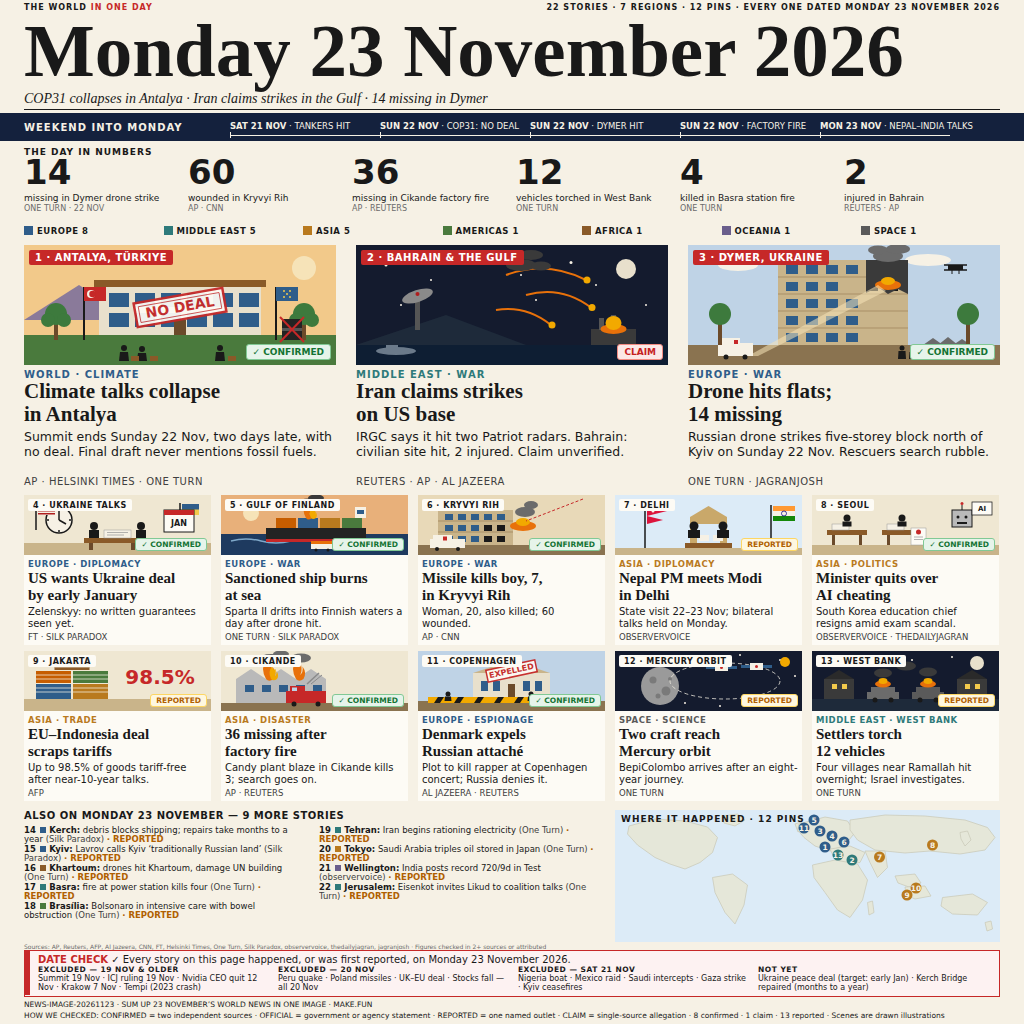
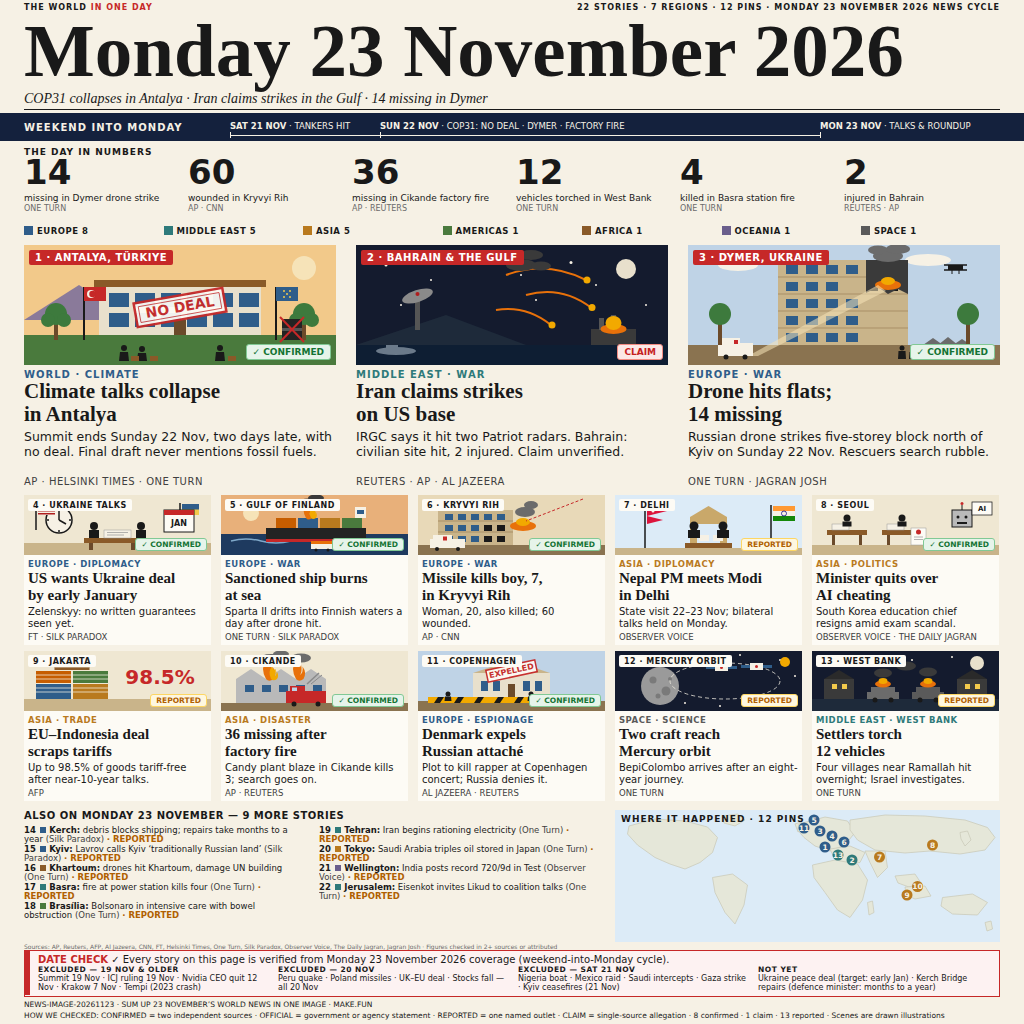
news-image-20261123: round 2 fix — date wording, timeline endpoint, DATE CHECK dates, source casing, pin 10 gap

diff --git a/build/front.html b/build/front.html
@@ -72,7 +72,7 @@ body { width:2048px; height:2048px; background:#F6F1E5; font-family:'DejaVu Sans
 </style></head><body>
 
 <!-- TOP STRIP + DATE : v2 — 22 stories on the page (not the 36-story pool), 12 pins, 7 regions -->
-<div class="strip"><span>THE WORLD <span class="red">IN ONE DAY</span></span><span>22 STORIES &middot; 7 REGIONS &middot; 12 PINS &middot; EVERY ONE DATED MONDAY 23 NOVEMBER 2026</span></div>
+<div class="strip"><span>THE WORLD <span class="red">IN ONE DAY</span></span><span>22 STORIES &middot; 7 REGIONS &middot; 12 PINS &middot; MONDAY 23 NOVEMBER 2026 NEWS CYCLE</span></div>
 <div class="bigdate">Monday 23 November 2026</div>
 <div class="mastdek">COP31 collapses in Antalya &middot; Iran claims strikes in the Gulf &middot; 14 missing in Dymer</div>
 <div class="rule" style="left:48px; top:218px; width:1952px; height:2px;"></div>
@@ -81,20 +81,16 @@ body { width:2048px; height:2048px; background:#F6F1E5; font-family:'DejaVu Sans
 <div class="tlbg"></div>
 <div class="tllab">WEEKEND INTO MONDAY</div>
 <div class="tick" style="left:460px;"><b>SAT 21 NOV</b> &middot; TANKERS HIT</div>
-<div class="tick" style="left:760px;"><b>SUN 22 NOV</b> &middot; COP31: NO DEAL</div>
-<div class="tick" style="left:1060px;"><b>SUN 22 NOV</b> &middot; DYMER HIT</div>
-<div class="tick" style="left:1360px;"><b>SUN 22 NOV</b> &middot; FACTORY FIRE</div>
-<div class="tick" style="left:1640px;"><b>MON 23 NOV</b> &middot; NEPAL&ndash;INDIA TALKS</div>
-<div style="position:absolute; left:460px; top:270px; width:1440px; height:2px; background:#F6F1E5;"></div>
+<div class="tick" style="left:760px;"><b>SUN 22 NOV</b> &middot; COP31: NO DEAL &middot; DYMER &middot; FACTORY FIRE</div>
+<div class="tick" style="left:1640px;"><b>MON 23 NOV</b> &middot; TALKS &amp; ROUNDUP</div>
+<div style="position:absolute; left:460px; top:270px; width:1180px; height:2px; background:#F6F1E5;"></div>
 <div style="position:absolute; left:459px; top:264px; width:2px; height:12px; background:#F6F1E5;"></div>
 <div style="position:absolute; left:759px; top:264px; width:2px; height:12px; background:#F6F1E5;"></div>
-<div style="position:absolute; left:1059px; top:264px; width:2px; height:12px; background:#F6F1E5;"></div>
-<div style="position:absolute; left:1359px; top:264px; width:2px; height:12px; background:#F6F1E5;"></div>
 <div style="position:absolute; left:1639px; top:264px; width:2px; height:12px; background:#F6F1E5;"></div>
 
 <!-- THE DAY IN NUMBERS : v2 — all six are people-counts from stories on this page -->
 <div class="nlab">THE DAY IN NUMBERS</div>
-<div class="nfig" style="left:48px;"><div class="f" style="font-size:68px; margin-top:20px;">14</div><div class="l">missing in Dymer drone strike</div><div class="s">ONE TURN &middot; 22 NOV</div></div>
+<div class="nfig" style="left:48px;"><div class="f" style="font-size:68px; margin-top:20px;">14</div><div class="l">missing in Dymer drone strike</div><div class="s">ONE TURN</div></div>
 <div class="nfig" style="left:376px;"><div class="f" style="font-size:68px; margin-top:20px;">60</div><div class="l">wounded in Kryvyi Rih</div><div class="s">AP &middot; CNN</div></div>
 <div class="nfig" style="left:704px;"><div class="f" style="font-size:68px; margin-top:20px;">36</div><div class="l">missing in Cikande factory fire</div><div class="s">AP &middot; REUTERS</div></div>
 <div class="nfig" style="left:1032px;"><div class="f" style="font-size:68px; margin-top:20px;">12</div><div class="l">vehicles torched in West Bank</div><div class="s">ONE TURN</div></div>
@@ -140,7 +136,7 @@ body { width:2048px; height:2048px; background:#F6F1E5; font-family:'DejaVu Sans
 <div class="region" style="color:#2F5D8A;">EUROPE &middot; WAR</div>
 <div class="head">Drone hits flats;<br>14 missing</div>
 <div class="dek">Russian drone strikes five-storey block north of Kyiv on Sunday 22 Nov. Rescuers search rubble.</div>
-<div class="src">ONE TURN &middot; JAGRANJOSH</div>
+<div class="src">ONE TURN &middot; JAGRAN JOSH</div>
 </div>
 
 <!-- GRID ROW 1 (990-1290) : v2 — 5 top-illustration cards -->
@@ -185,7 +181,7 @@ body { width:2048px; height:2048px; background:#F6F1E5; font-family:'DejaVu Sans
 <div class="region" style="color:#B97A1E;">ASIA &middot; DIPLOMACY</div>
 <div class="head">Nepal PM meets Modi<br>in Delhi</div>
 <div class="dek">State visit 22&ndash;23 Nov; bilateral talks held on Monday.</div>
-<div class="src">OBSERVERVOICE</div>
+<div class="src">OBSERVER VOICE</div>
 </div>
 
 <!-- CARD 8 : South Korea minister quits (story 13, CONFIRMED) — classroom, exam papers, AI robot, resignation letter -->
@@ -196,7 +192,7 @@ body { width:2048px; height:2048px; background:#F6F1E5; font-family:'DejaVu Sans
 <div class="region" style="color:#B97A1E;">ASIA &middot; POLITICS</div>
 <div class="head">Minister quits over<br>AI cheating</div>
 <div class="dek">South Korea education chief resigns amid exam scandal.</div>
-<div class="src">OBSERVERVOICE &middot; THEDAILYJAGRAN</div>
+<div class="src">OBSERVER VOICE &middot; THE DAILY JAGRAN</div>
 </div>
 
 <!-- GRID ROW 2 (1302-1602) : v2 — 5 top-illustration cards -->
@@ -268,7 +264,7 @@ body { width:2048px; height:2048px; background:#F6F1E5; font-family:'DejaVu Sans
 <div class="col" style="left:590px;">
 <div class="row"><span class="n">19</span> <span class="dot" style="background:#2E7A7A;"></span> <b>Tehran:</b> Iran begins rationing electricity <span class="rsrc">(One Turn)</span> <span class="bdg">&middot; REPORTED</span></div>
 <div class="row"><span class="n">20</span> <span class="dot" style="background:#B97A1E;"></span> <b>Tokyo:</b> Saudi Arabia triples oil stored in Japan <span class="rsrc">(One Turn)</span> <span class="bdg">&middot; REPORTED</span></div>
-<div class="row"><span class="n">21</span> <span class="dot" style="background:#6A5E8C;"></span> <b>Wellington:</b> India posts record 720/9d in Test <span class="rsrc">(observervoice)</span> <span class="bdg">&middot; REPORTED</span></div>
+<div class="row"><span class="n">21</span> <span class="dot" style="background:#6A5E8C;"></span> <b>Wellington:</b> India posts record 720/9d in Test <span class="rsrc">(Observer Voice)</span> <span class="bdg">&middot; REPORTED</span></div>
 <div class="row"><span class="n">22</span> <span class="dot" style="background:#2E7A7A;"></span> <b>Jerusalem:</b> Eisenkot invites Likud to coalition talks <span class="rsrc">(One Turn)</span> <span class="bdg">&middot; REPORTED</span></div>
 </div>
 </div>
@@ -304,22 +300,22 @@ body { width:2048px; height:2048px; background:#F6F1E5; font-family:'DejaVu Sans
 <circle cx="446" cy="90" r="11" fill="#2E7A7A"/><text x="446" y="95">13</text>
 <circle cx="529" cy="94" r="11" fill="#B97A1E"/><text x="529" y="99">7</text>
 <circle cx="474" cy="100" r="11" fill="#2E7A7A"/><text x="474" y="105">2</text>
-<circle cx="602" cy="156" r="11" fill="#B97A1E"/><text x="602" y="161">10</text>
+<circle cx="605" cy="153" r="11" fill="#B97A1E"/><text x="605" y="158">10</text>
 <circle cx="584" cy="170" r="11" fill="#B97A1E"/><text x="584" y="175">9</text>
 </g>
 </svg>
 </div>
 
-<div style="position:absolute; left:48px; top:1886px; width:1952px; font-size:12px; color:#6B6B6B; white-space:nowrap;">Sources: AP, Reuters, AFP, Al Jazeera, CNN, FT, Helsinki Times, One Turn, Silk Paradox, observervoice, thedailyjagran, jagranjosh &middot; Figures checked in 2+ sources or attributed</div>
+<div style="position:absolute; left:48px; top:1886px; width:1952px; font-size:12px; color:#6B6B6B; white-space:nowrap;">Sources: AP, Reuters, AFP, Al Jazeera, CNN, FT, Helsinki Times, One Turn, Silk Paradox, Observer Voice, The Daily Jagran, Jagran Josh &middot; Figures checked in 2+ sources or attributed</div>
 
 <!-- DATE CHECK 1900-1994 : v2 — dated exclusions only, with real dates from the research file; NOT YET items are future items from the file (Ukraine deal target early Jan; Kerch repairs months to a year) -->
 <div class="dc">
 <div class="redbar"></div>
-<div class="l"><b>DATE CHECK</b> &#10003; Every story on this page happened, or was first reported, on Monday 23 November 2026.</div>
+<div class="l"><b>DATE CHECK</b> &#10003; Every story on this page is verified from Monday 23 November 2026 coverage (weekend-into-Monday cycle).</div>
 <div class="col" style="left:26px;"><span class="h">EXCLUDED &mdash; 19 NOV &amp; OLDER</span><br>Summit 19 Nov &middot; ICJ ruling 19 Nov &middot; Nvidia CEO quit 12 Nov &middot; Krakow 7 Nov &middot; Tempi (2023 crash)</div>
 <div class="col" style="left:506px;"><span class="h">EXCLUDED &mdash; 20 NOV</span><br>Peru quake &middot; Poland missiles &middot; UK&ndash;EU deal &middot; Stocks fall &mdash; all 20 Nov</div>
-<div class="col" style="left:986px;"><span class="h">EXCLUDED &mdash; SAT 21 NOV</span><br>Nigeria boat &middot; Mexico raid &middot; Saudi intercepts &middot; Gaza strike &middot; Kyiv ceasefires</div>
-<div class="col" style="left:1466px;"><span class="h">NOT YET</span><br>Ukraine peace deal (target: early Jan) &middot; Kerch Bridge repaired (months to a year)</div>
+<div class="col" style="left:986px;"><span class="h">EXCLUDED &mdash; SAT 21 NOV</span><br>Nigeria boat &middot; Mexico raid &middot; Saudi intercepts &middot; Gaza strike &middot; Kyiv ceasefires (21 Nov)</div>
+<div class="col" style="left:1466px;"><span class="h">NOT YET</span><br>Ukraine peace deal (target: early Jan) &middot; Kerch Bridge repairs (defence minister: months to a year)</div>
 </div>
 
 <div class="foot" style="top:2002px;">NEWS-IMAGE-20261123 &middot; SUM UP 23 NOVEMBER&rsquo;S WORLD NEWS IN ONE IMAGE &middot; MAKE.FUN</div>

diff --git a/main.py b/main.py
@@ -52,6 +52,35 @@ def _png_iend_crc_ok(data: bytes) -> bool:
     return stored == computed
 
 
+def _png_chunks_ok(data: bytes) -> bool:
+    """Walk every chunk; require valid lengths/CRCs, >=1 IDAT, exact end.
+
+    The IHDR/IEND checks above only look at the two ends. A file can pass
+    them while carrying a corrupt IDAT chunk or a chunk whose declared
+    length runs past the end. This walk rejects those: each chunk's length
+    must stay inside the file, each stored CRC must match, at least one
+    IDAT chunk must exist, and the walk must land exactly on the file end
+    right after IEND (no trailing bytes).
+    """
+    pos = 8
+    seen_idat = False
+    while pos + 8 <= len(data):
+        length = int.from_bytes(data[pos:pos + 4], "big")
+        ctype = data[pos + 4:pos + 8]
+        end = pos + 12 + length
+        if end > len(data):
+            return False
+        stored = int.from_bytes(data[end - 4:end], "big")
+        if zlib.crc32(data[pos + 4:end - 4]) & 0xFFFFFFFF != stored:
+            return False
+        if ctype == b"IDAT":
+            seen_idat = True
+        if ctype == b"IEND":
+            return seen_idat and end == len(data)
+        pos = end
+    return False
+
+
 def main() -> int:
     repo_root = Path(__file__).resolve().parent
     source = repo_root / SOURCE_NAME
@@ -80,6 +109,10 @@ def main() -> int:
     if not _png_iend_crc_ok(data):
         print("entry.png has a corrupt IEND chunk (CRC mismatch)",
               file=sys.stderr)
+        return 1
+    if not _png_chunks_ok(data):
+        print("entry.png has malformed chunks (bad length/CRC, no IDAT, "
+              "or trailing bytes)", file=sys.stderr)
         return 1
 
     shutil.copyfile(source, target)
